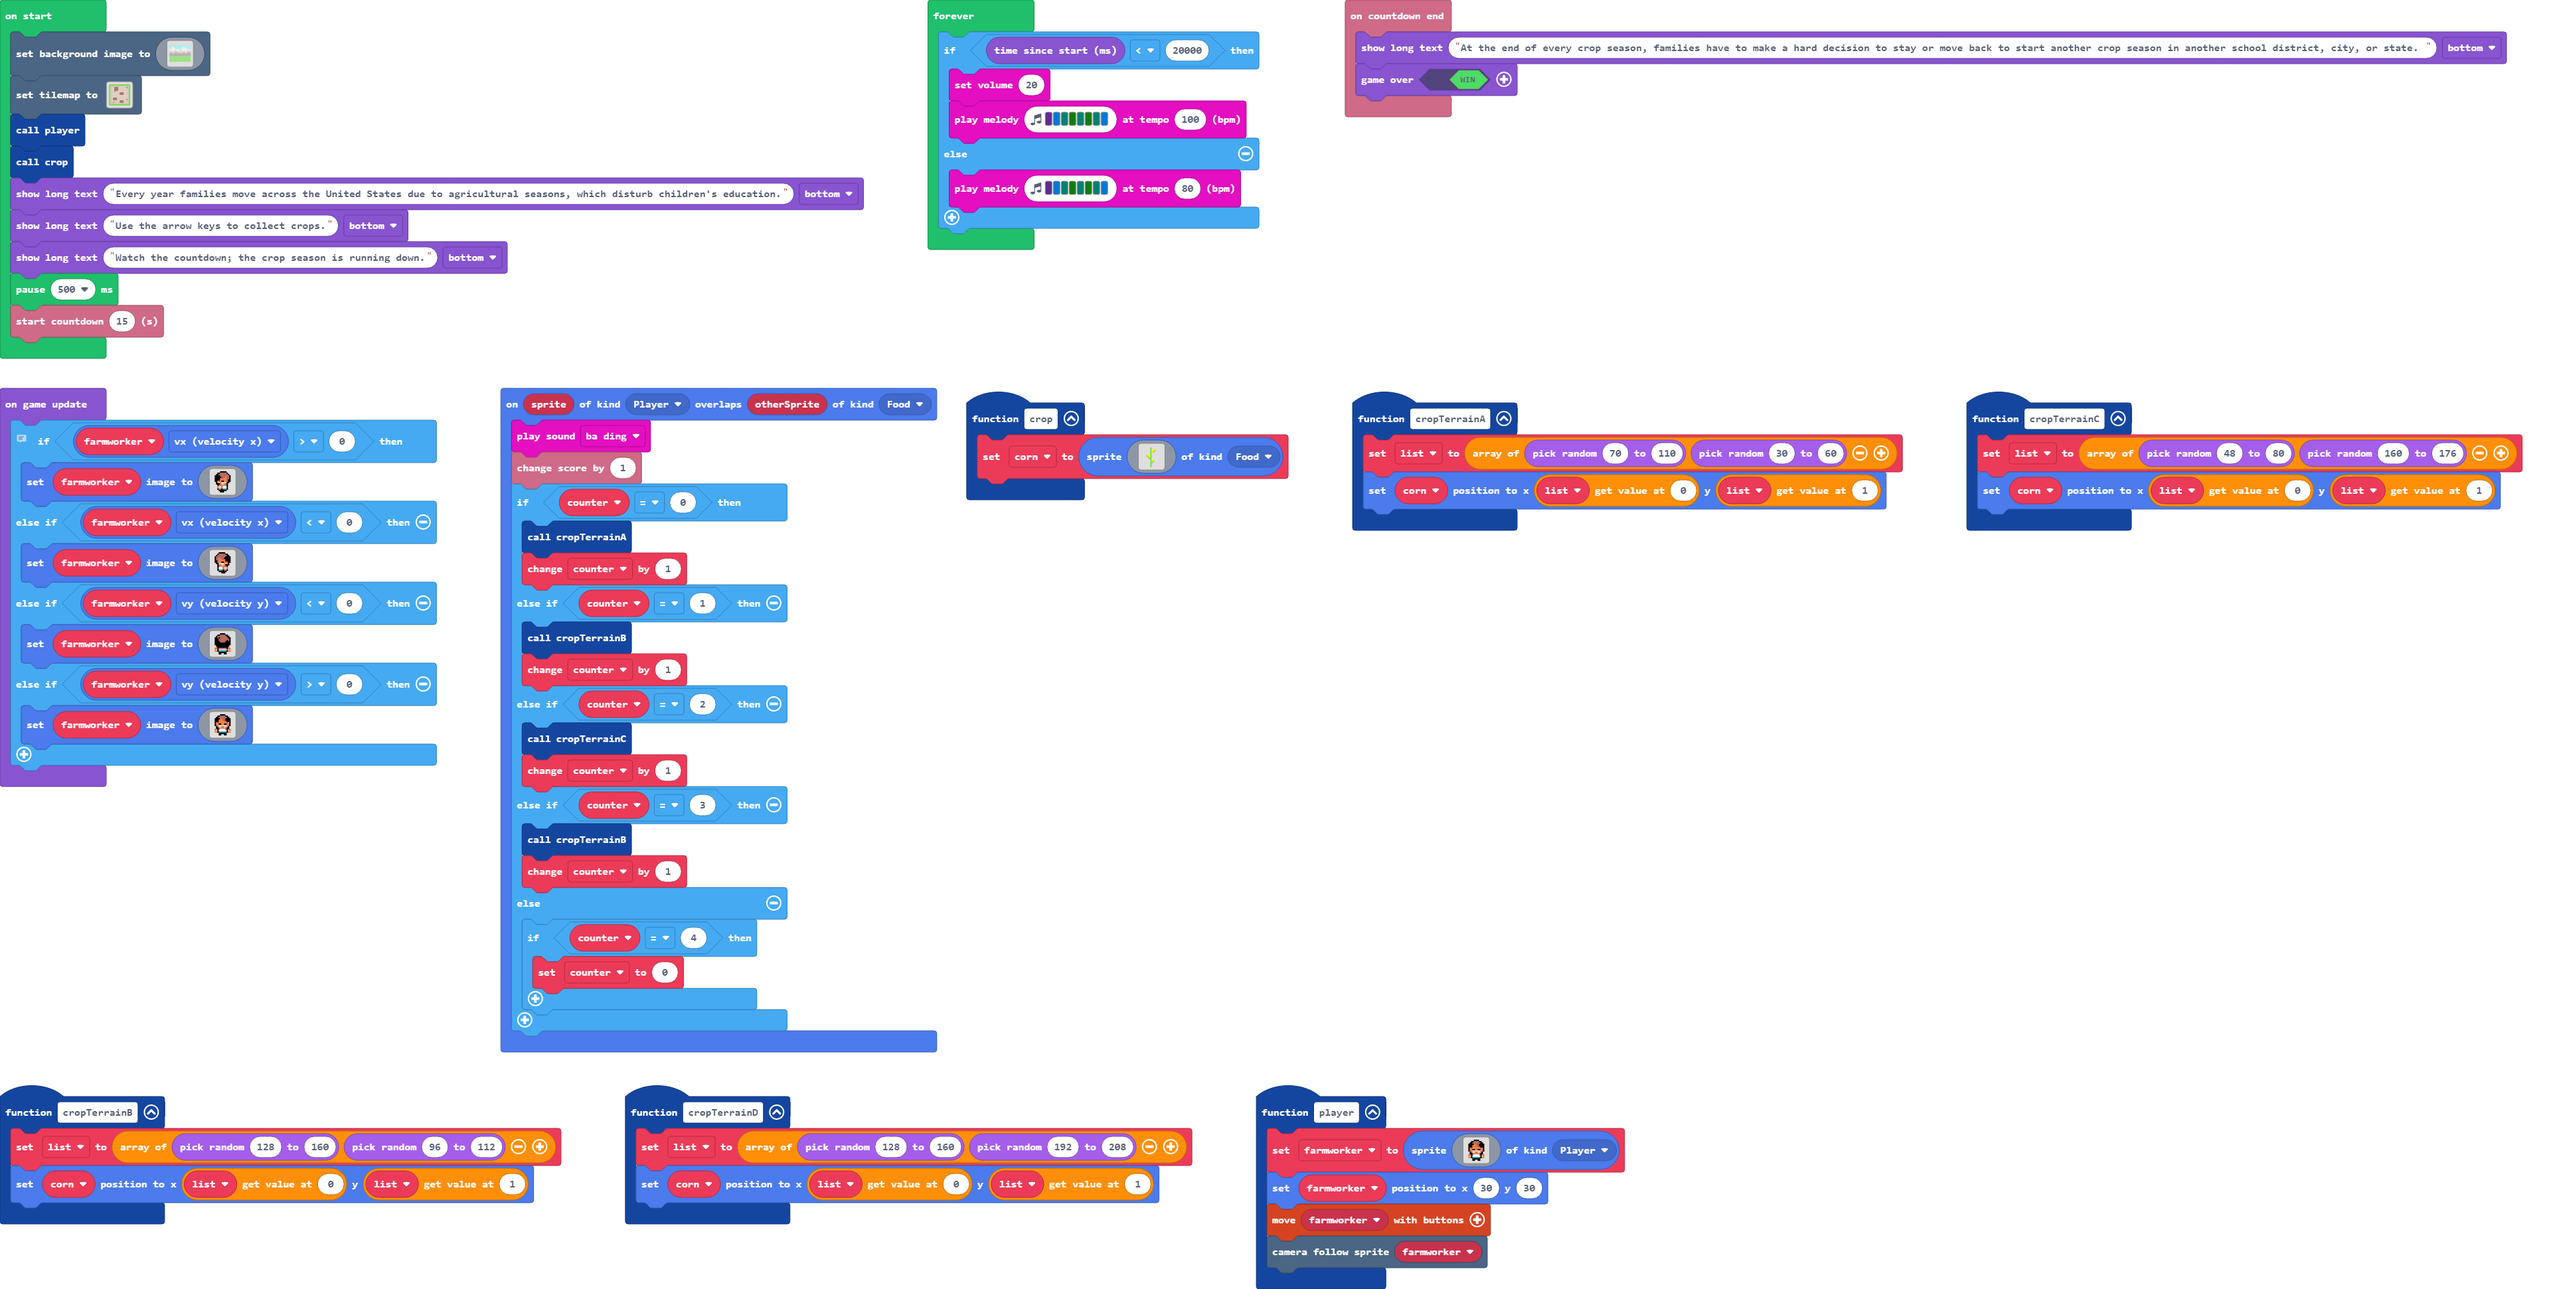
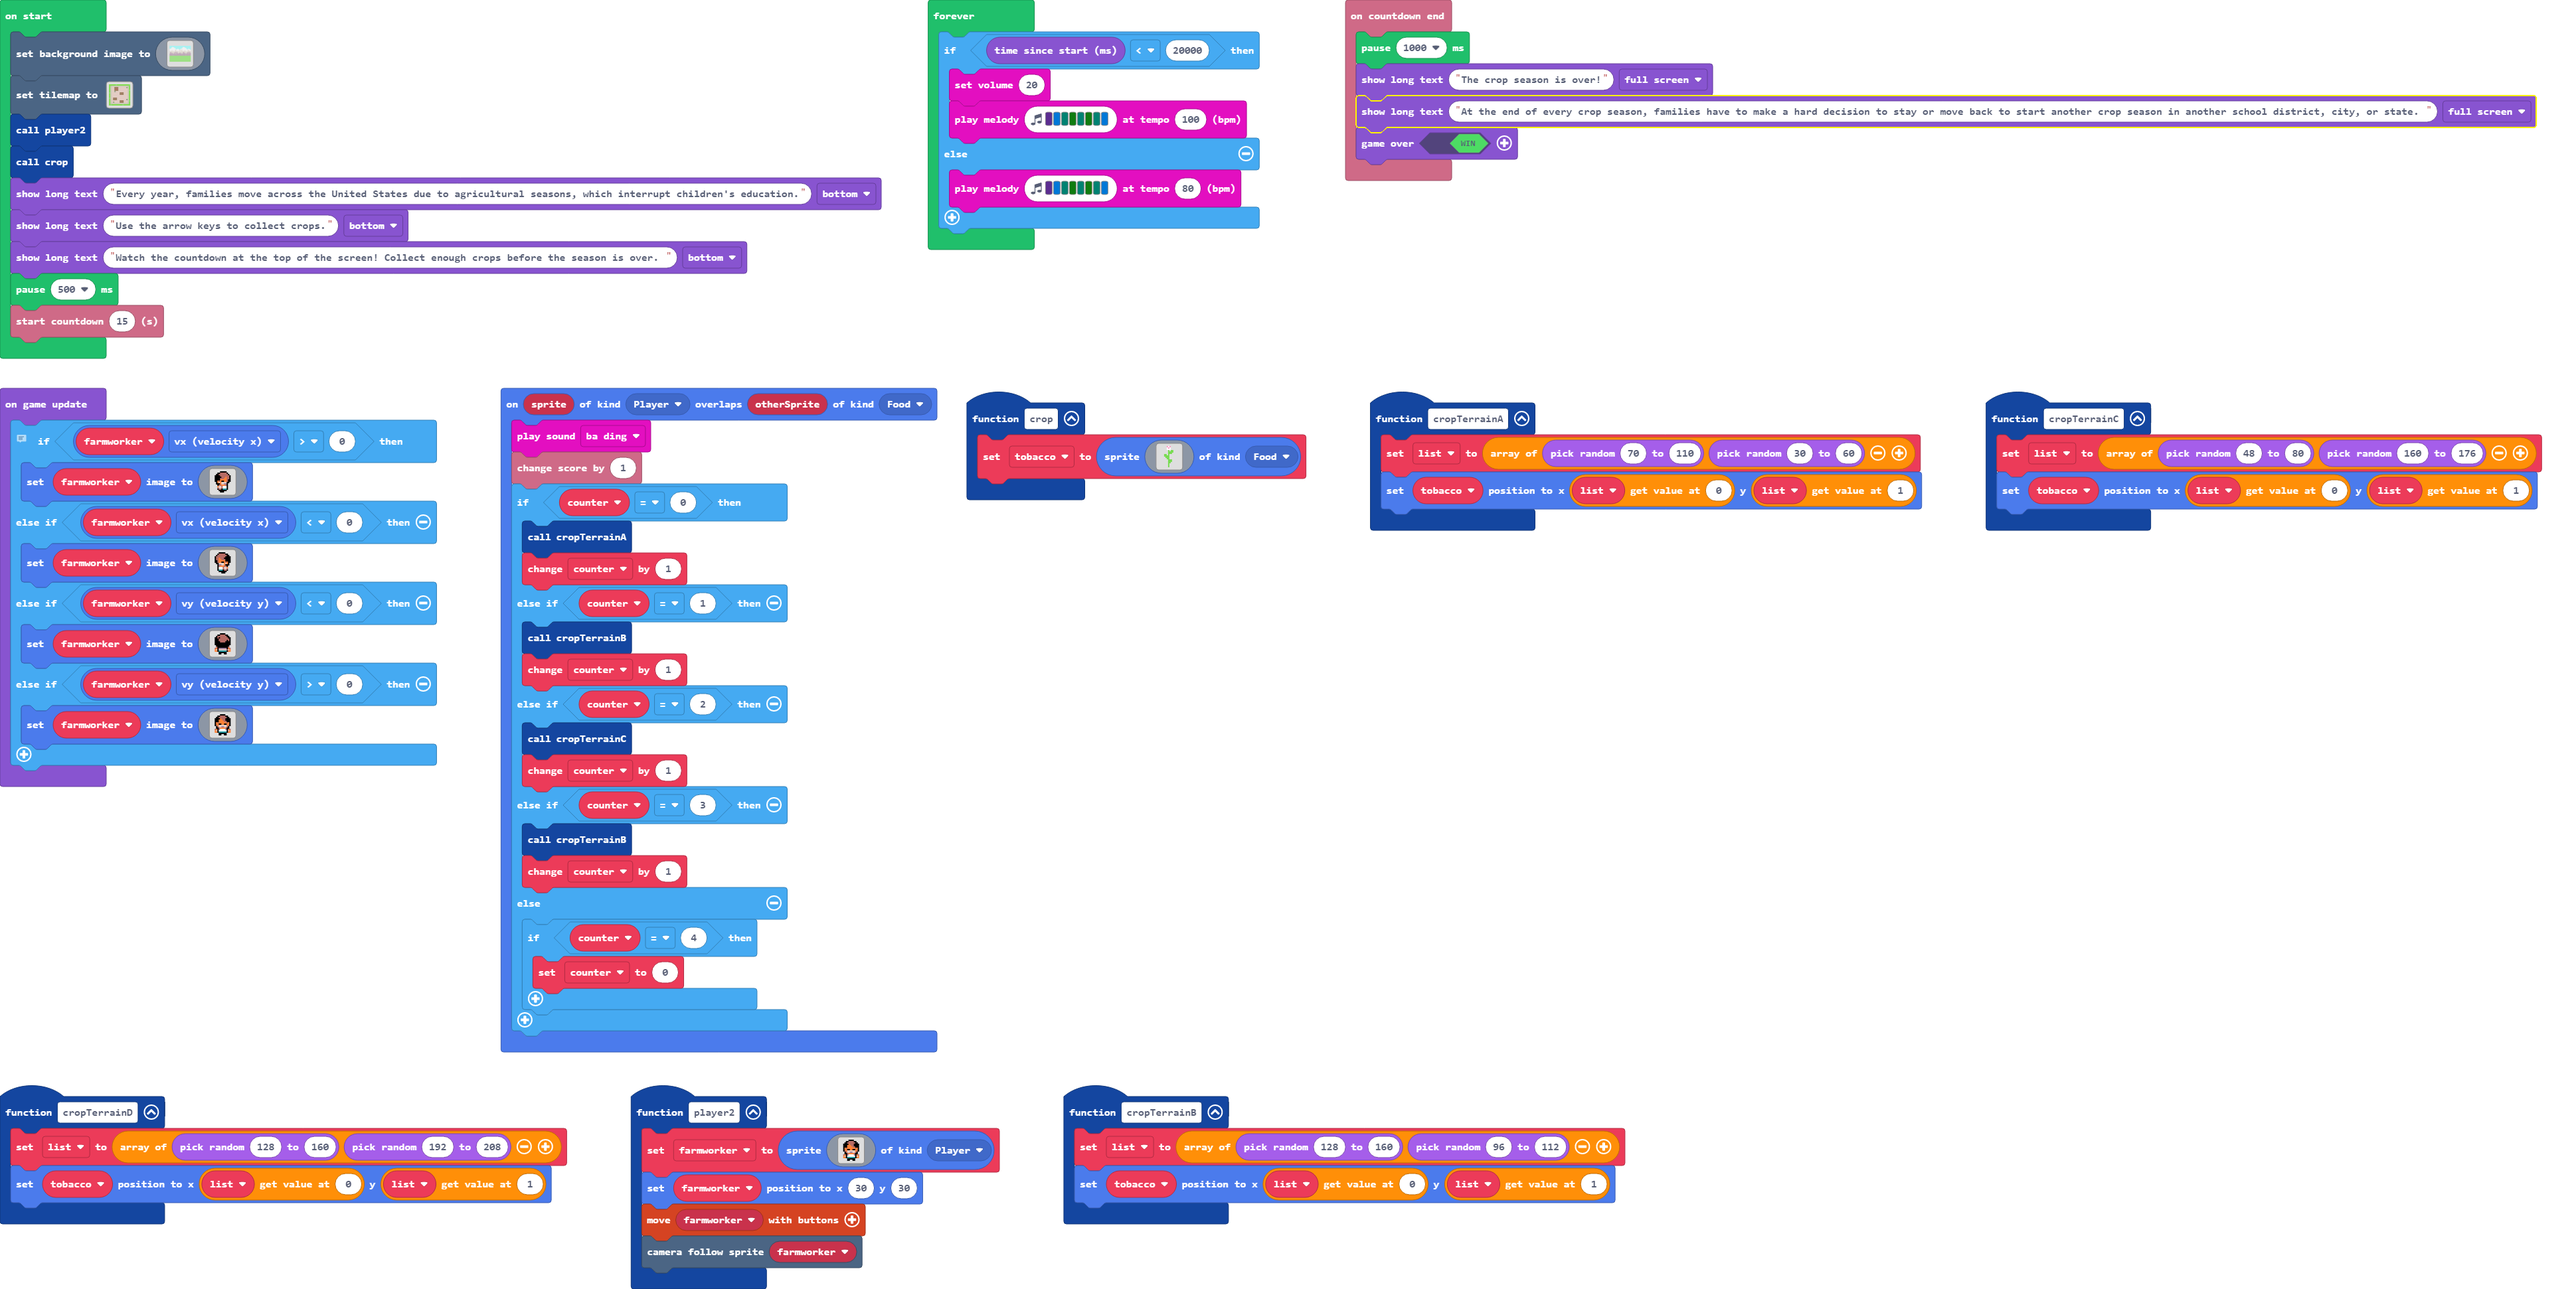
Update main.blocks, main.ts, tilemap.g.jres, tilemap.g.ts

diff --git a/tilemap.g.ts b/tilemap.g.ts
@@ -122,6 +122,120 @@ namespace myTiles {
 . . . . . . . . . . . . . . . . 
 . . . . . . . . . . . . . . . . 
 `, [myTiles.transparency16], TileScale.Sixteen);
+            case "level6":
+            case "level6":return tiles.createTilemap(hex`1000100000000000000000000000000000000000000000000000000000000000000000000000000000000000000000000000000000000000000000000000000000000000000000000000000000000000000000000000000000000000000000000000000000000000000000000000000000000000000000000000000000000000000000000000000000000000000000000000000000000000000000000000000000000000000000000000000000000000000000000000000000000000000000000000000000000000000000000000000000000000000000000000000000000000000000000000000000000000000000000000000000000000000000000000000000000000`, img`
+. . . . . . . . . . . . . . . . 
+. . . . . . . . . . . . . . . . 
+. . . . . . . . . . . . . . . . 
+. . . . . . . . . . . . . . . . 
+. . . . . . . . . . . . . . . . 
+. . . . . . . . . . . . . . . . 
+. . . . . . . . . . . . . . . . 
+. . . . . . . . . . . . . . . . 
+. . . . . . . . . . . . . . . . 
+. . . . . . . . . . . . . . . . 
+. . . . . . . . . . . . . . . . 
+. . . . . . . . . . . . . . . . 
+. . . . . . . . . . . . . . . . 
+. . . . . . . . . . . . . . . . 
+. . . . . . . . . . . . . . . . 
+. . . . . . . . . . . . . . . . 
+`, [myTiles.transparency16], TileScale.Sixteen);
+            case "level7":
+            case "level7":return tiles.createTilemap(hex`1000100000000000000000000000000000000000000000000000000000000000000000000000000000000000000000000000000000000000000000000000000000000000000000000000000000000000000000000000000000000000000000000000000000000000000000000000000000000000000000000000000000000000000000000000000000000000000000000000000000000000000000000000000000000000000000000000000000000000000000000000000000000000000000000000000000000000000000000000000000000000000000000000000000000000000000000000000000000000000000000000000000000000000000000000000000000000`, img`
+. . . . . . . . . . . . . . . . 
+. . . . . . . . . . . . . . . . 
+. . . . . . . . . . . . . . . . 
+. . . . . . . . . . . . . . . . 
+. . . . . . . . . . . . . . . . 
+. . . . . . . . . . . . . . . . 
+. . . . . . . . . . . . . . . . 
+. . . . . . . . . . . . . . . . 
+. . . . . . . . . . . . . . . . 
+. . . . . . . . . . . . . . . . 
+. . . . . . . . . . . . . . . . 
+. . . . . . . . . . . . . . . . 
+. . . . . . . . . . . . . . . . 
+. . . . . . . . . . . . . . . . 
+. . . . . . . . . . . . . . . . 
+. . . . . . . . . . . . . . . . 
+`, [myTiles.transparency16], TileScale.Sixteen);
+            case "level8":
+            case "level8":return tiles.createTilemap(hex`1000100000000000000000000000000000000000000000000000000000000000000000000000000000000000000000000000000000000000000000000000000000000000000000000000000000000000000000000000000000000000000000000000000000000000000000000000000000000000000000000000000000000000000000000000000000000000000000000000000000000000000000000000000000000000000000000000000000000000000000000000000000000000000000000000000000000000000000000000000000000000000000000000000000000000000000000000000000000000000000000000000000000000000000000000000000000000`, img`
+. . . . . . . . . . . . . . . . 
+. . . . . . . . . . . . . . . . 
+. . . . . . . . . . . . . . . . 
+. . . . . . . . . . . . . . . . 
+. . . . . . . . . . . . . . . . 
+. . . . . . . . . . . . . . . . 
+. . . . . . . . . . . . . . . . 
+. . . . . . . . . . . . . . . . 
+. . . . . . . . . . . . . . . . 
+. . . . . . . . . . . . . . . . 
+. . . . . . . . . . . . . . . . 
+. . . . . . . . . . . . . . . . 
+. . . . . . . . . . . . . . . . 
+. . . . . . . . . . . . . . . . 
+. . . . . . . . . . . . . . . . 
+. . . . . . . . . . . . . . . . 
+`, [myTiles.transparency16], TileScale.Sixteen);
+            case "level9":
+            case "level9":return tiles.createTilemap(hex`1000100000000000000000000000000000000000000000000000000000000000000000000000000000000000000000000000000000000000000000000000000000000000000000000000000000000000000000000000000000000000000000000000000000000000000000000000000000000000000000000000000000000000000000000000000000000000000000000000000000000000000000000000000000000000000000000000000000000000000000000000000000000000000000000000000000000000000000000000000000000000000000000000000000000000000000000000000000000000000000000000000000000000000000000000000000000000`, img`
+. . . . . . . . . . . . . . . . 
+. . . . . . . . . . . . . . . . 
+. . . . . . . . . . . . . . . . 
+. . . . . . . . . . . . . . . . 
+. . . . . . . . . . . . . . . . 
+. . . . . . . . . . . . . . . . 
+. . . . . . . . . . . . . . . . 
+. . . . . . . . . . . . . . . . 
+. . . . . . . . . . . . . . . . 
+. . . . . . . . . . . . . . . . 
+. . . . . . . . . . . . . . . . 
+. . . . . . . . . . . . . . . . 
+. . . . . . . . . . . . . . . . 
+. . . . . . . . . . . . . . . . 
+. . . . . . . . . . . . . . . . 
+. . . . . . . . . . . . . . . . 
+`, [myTiles.transparency16], TileScale.Sixteen);
+            case "level10":
+            case "level10":return tiles.createTilemap(hex`1000100000000000000000000000000000000000000000000000000000000000000000000000000000000000000000000000000000000000000000000000000000000000000000000000000000000000000000000000000000000000000000000000000000000000000000000000000000000000000000000000000000000000000000000000000000000000000000000000000000000000000000000000000000000000000000000000000000000000000000000000000000000000000000000000000000000000000000000000000000000000000000000000000000000000000000000000000000000000000000000000000000000000000000000000000000000000`, img`
+. . . . . . . . . . . . . . . . 
+. . . . . . . . . . . . . . . . 
+. . . . . . . . . . . . . . . . 
+. . . . . . . . . . . . . . . . 
+. . . . . . . . . . . . . . . . 
+. . . . . . . . . . . . . . . . 
+. . . . . . . . . . . . . . . . 
+. . . . . . . . . . . . . . . . 
+. . . . . . . . . . . . . . . . 
+. . . . . . . . . . . . . . . . 
+. . . . . . . . . . . . . . . . 
+. . . . . . . . . . . . . . . . 
+. . . . . . . . . . . . . . . . 
+. . . . . . . . . . . . . . . . 
+. . . . . . . . . . . . . . . . 
+. . . . . . . . . . . . . . . . 
+`, [myTiles.transparency16], TileScale.Sixteen);
+            case "level11":
+            case "level11":return tiles.createTilemap(hex`1000100000000000000000000000000000000000000000000000000000000000000000000000000000000000000000000000000000000000000000000000000000000000000000000000000000000000000000000000000000000000000000000000000000000000000000000000000000000000000000000000000000000000000000000000000000000000000000000000000000000000000000000000000000000000000000000000000000000000000000000000000000000000000000000000000000000000000000000000000000000000000000000000000000000000000000000000000000000000000000000000000000000000000000000000000000000000`, img`
+. . . . . . . . . . . . . . . . 
+. . . . . . . . . . . . . . . . 
+. . . . . . . . . . . . . . . . 
+. . . . . . . . . . . . . . . . 
+. . . . . . . . . . . . . . . . 
+. . . . . . . . . . . . . . . . 
+. . . . . . . . . . . . . . . . 
+. . . . . . . . . . . . . . . . 
+. . . . . . . . . . . . . . . . 
+. . . . . . . . . . . . . . . . 
+. . . . . . . . . . . . . . . . 
+. . . . . . . . . . . . . . . . 
+. . . . . . . . . . . . . . . . 
+. . . . . . . . . . . . . . . . 
+. . . . . . . . . . . . . . . . 
+. . . . . . . . . . . . . . . . 
+`, [myTiles.transparency16], TileScale.Sixteen);
         }
         return null;
     })

diff --git a/main.ts b/main.ts
@@ -10,7 +10,9 @@ function cropTerrainC () {
     tobacco.setPosition(list[0], list[1])
 }
 info.onCountdownEnd(function () {
-    game.showLongText("At the end of every crop season, families have to make a hard decision to stay or move back to start another crop season in another school district, city, or state. ", DialogLayout.Bottom)
+    pause(1000)
+    game.showLongText("The crop season is over!", DialogLayout.Full)
+    game.showLongText("At the end of every crop season, families have to make a hard decision to stay or move back to start another crop season in another school district, city, or state. ", DialogLayout.Full)
     game.over(true)
 })
 function cropTerrainD () {
@@ -18,7 +20,24 @@ function cropTerrainD () {
     tobacco.setPosition(list[0], list[1])
 }
 function player2 () {
-    farmworker = sprites.create(assets.image`farmWorker`, SpriteKind.Player)
+    farmworker = sprites.create(img`
+        . . . . f f f f . . . . 
+        . . f f e e e e f f . . 
+        . f f e e e e e e f f . 
+        f f f f 4 e e e f f f f 
+        f f f 4 4 4 e e f f f f 
+        f f f 4 4 4 4 e e f f f 
+        f 4 e 4 4 4 4 4 4 e 4 f 
+        f 4 4 f f 4 4 f f 4 4 f 
+        f e 4 d d d d d d 4 e f 
+        . f e d d b b d d e f . 
+        . f f e 4 4 4 4 e f f . 
+        e 4 f b 1 1 1 1 b f 4 e 
+        4 d f 1 1 1 1 1 1 f d 4 
+        4 4 f 6 6 6 6 6 6 f 4 4 
+        . . . f f f f f f . . . 
+        . . . f f . . f f . . . 
+        `, SpriteKind.Player)
     farmworker.setPosition(30, 30)
     controller.moveSprite(farmworker)
     scene.cameraFollowSprite(farmworker)
@@ -177,9 +196,9 @@ scene.setBackgroundImage(img`
 tiles.setTilemap(tilemap`level1`)
 player2()
 crop()
-game.showLongText("Every year families move across the United States due to agricultural seasons, which disturb children's education.", DialogLayout.Bottom)
+game.showLongText("Every year, families move across the United States due to agricultural seasons, which interrupt children's education.", DialogLayout.Bottom)
 game.showLongText("Use the arrow keys to collect crops.", DialogLayout.Bottom)
-game.showLongText("Watch the countdown; the crop season is running down.", DialogLayout.Bottom)
+game.showLongText("Watch the countdown at the top of the screen! Collect enough crops before the season is over. ", DialogLayout.Bottom)
 pause(500)
 info.startCountdown(15)
 game.onUpdate(function () {
